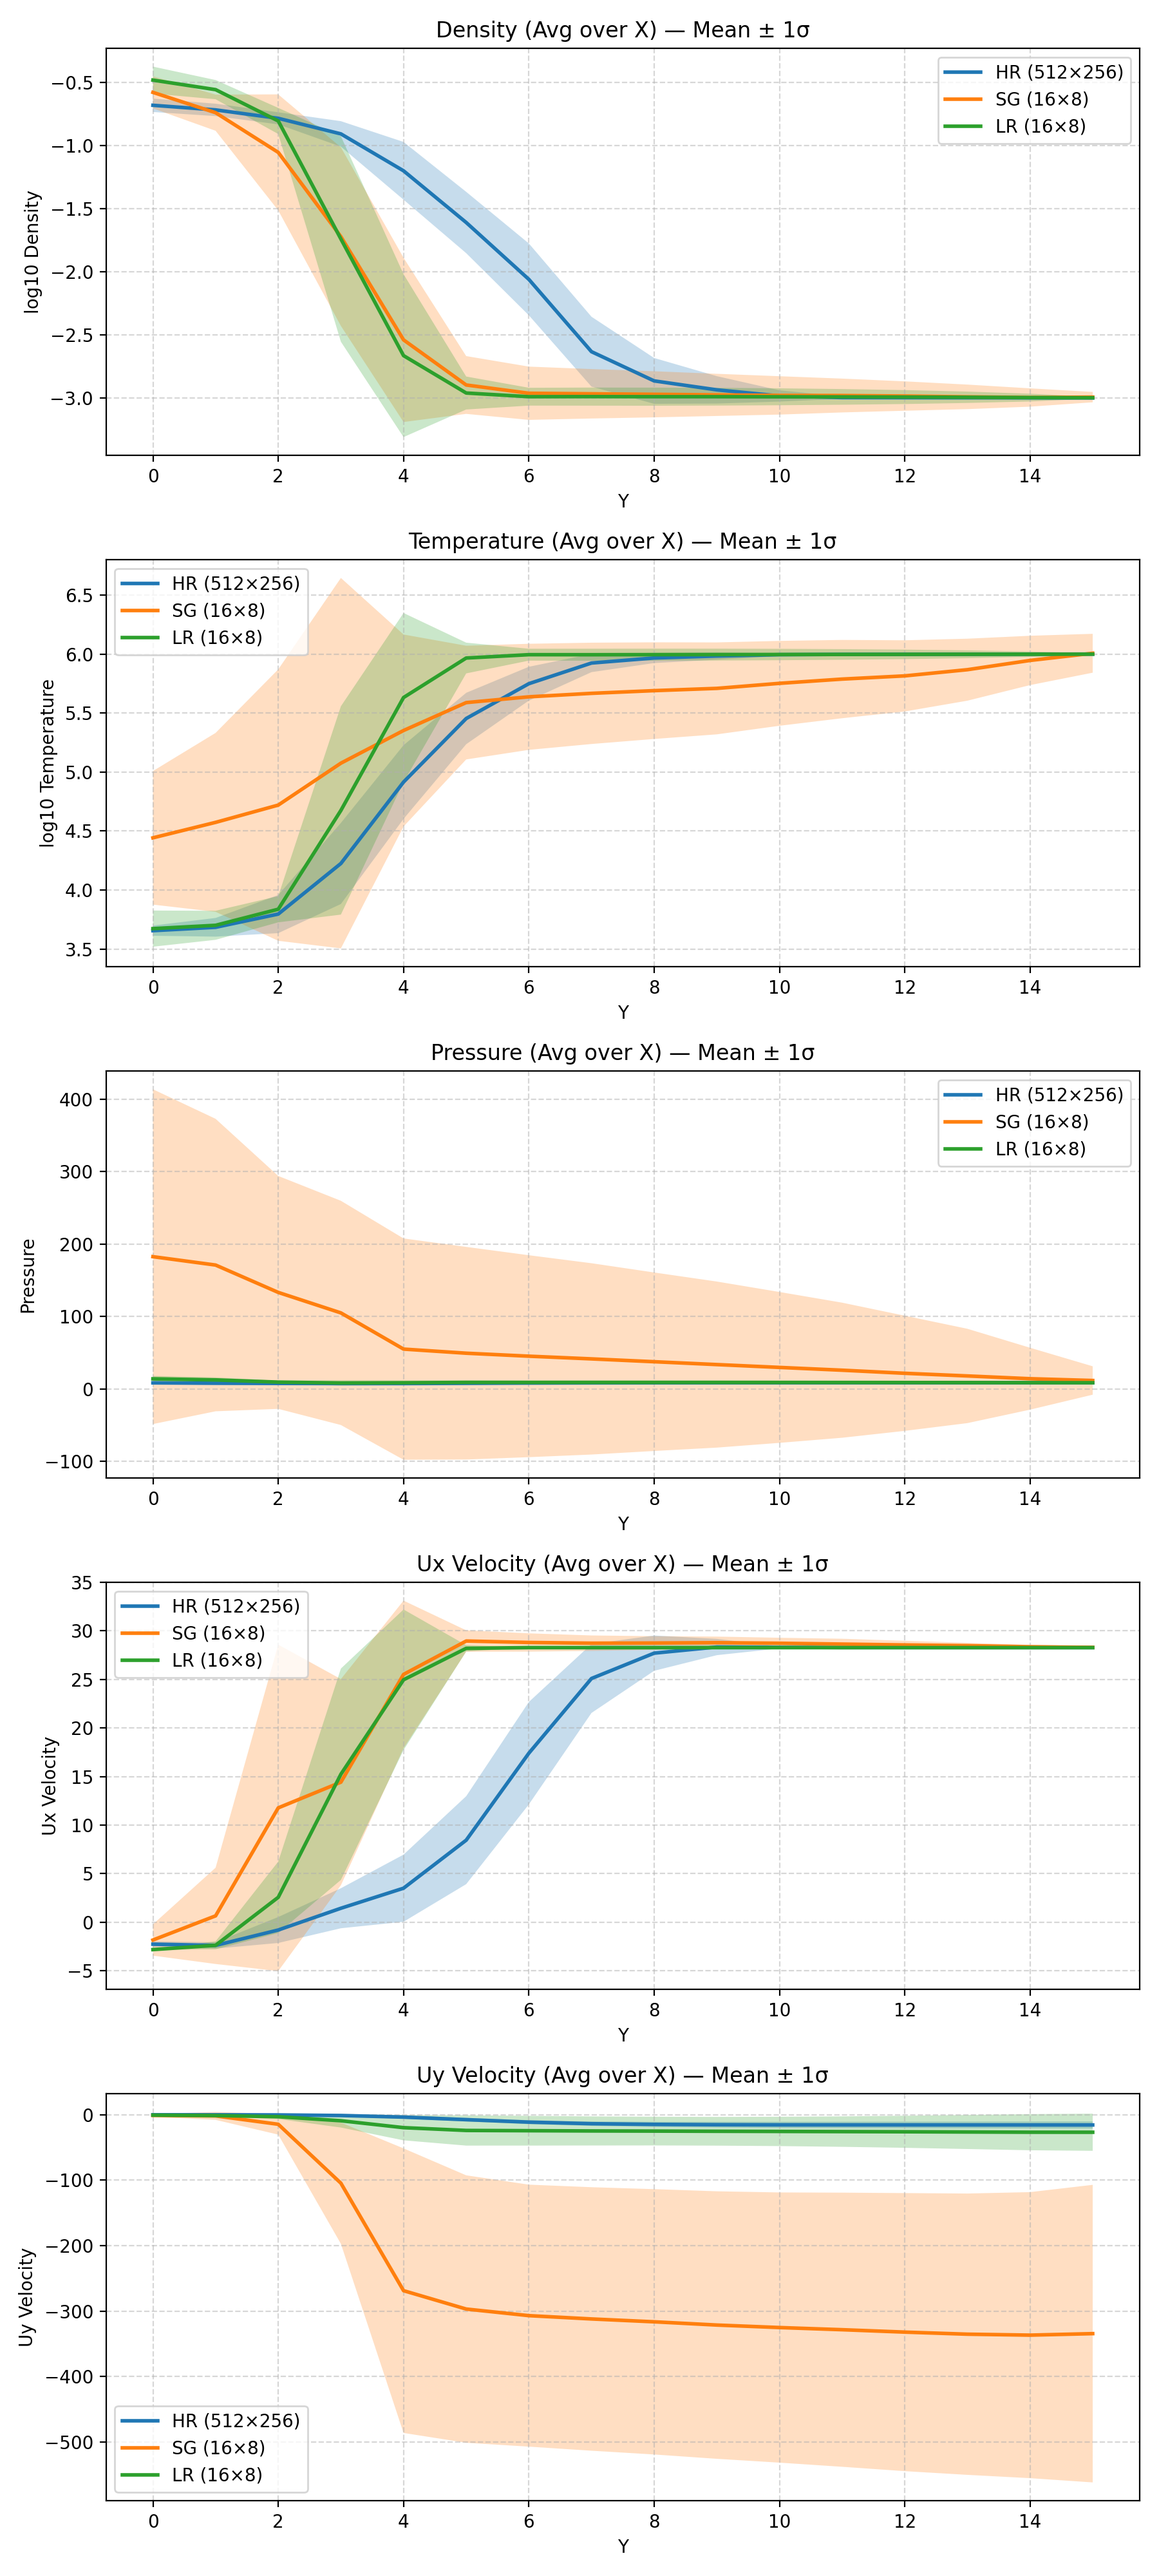
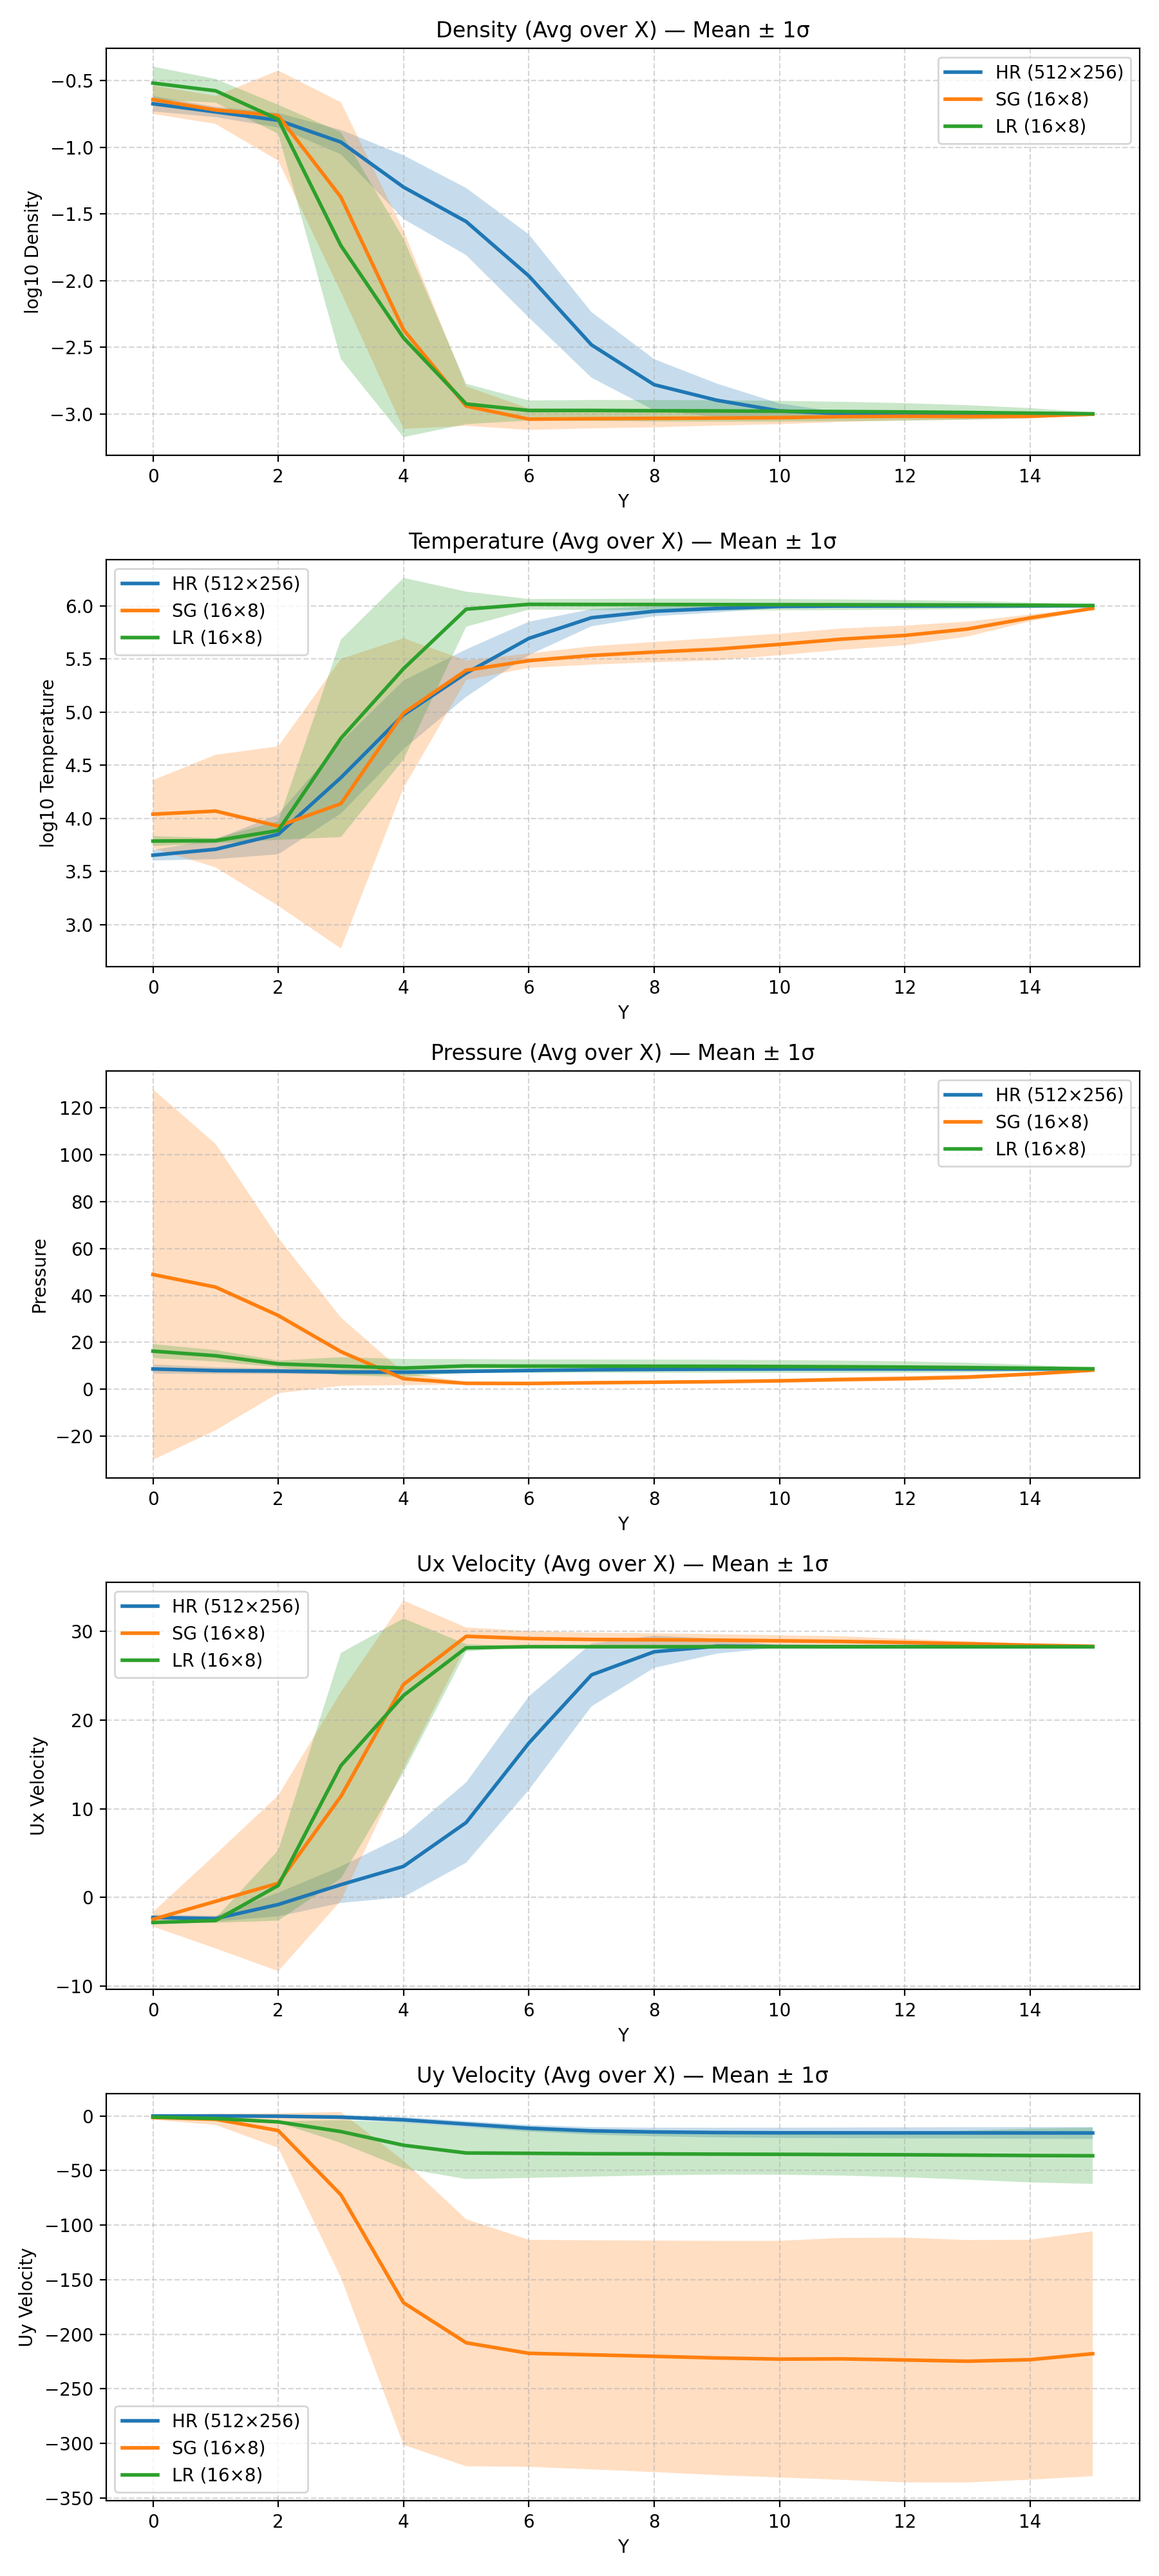
c

diff --git a/data/data_preprocess.py b/data/data_preprocess.py
@@ -97,7 +97,7 @@ class simulation_data():
 
         cwd = os.getcwd()
         os.chdir(filepath)
-        num_snaps = 500 # len([f for f in os.listdir(filepath) if f.endswith('.bin')])//2
+        num_snaps = 300 # len([f for f in os.listdir(filepath) if f.endswith('.bin')])//2
 
         self.rho = np.zeros((num_snaps, self.resolution[0], self.resolution[1]))
         self.temp = np.zeros_like(self.rho)
@@ -133,7 +133,7 @@ class simulation_data():
 
         cwd = os.getcwd()
         os.chdir(filepath)
-        num_snaps = 500 # len([f for f in os.listdir(filepath) if f.endswith('.bin')])//2
+        num_snaps = 300 # len([f for f in os.listdir(filepath) if f.endswith('.bin')])//2
 
         self.cons_rho = np.zeros((num_snaps, self.resolution[0], self.resolution[1]))
         self.cons_momx = np.zeros_like(self.cons_rho)
